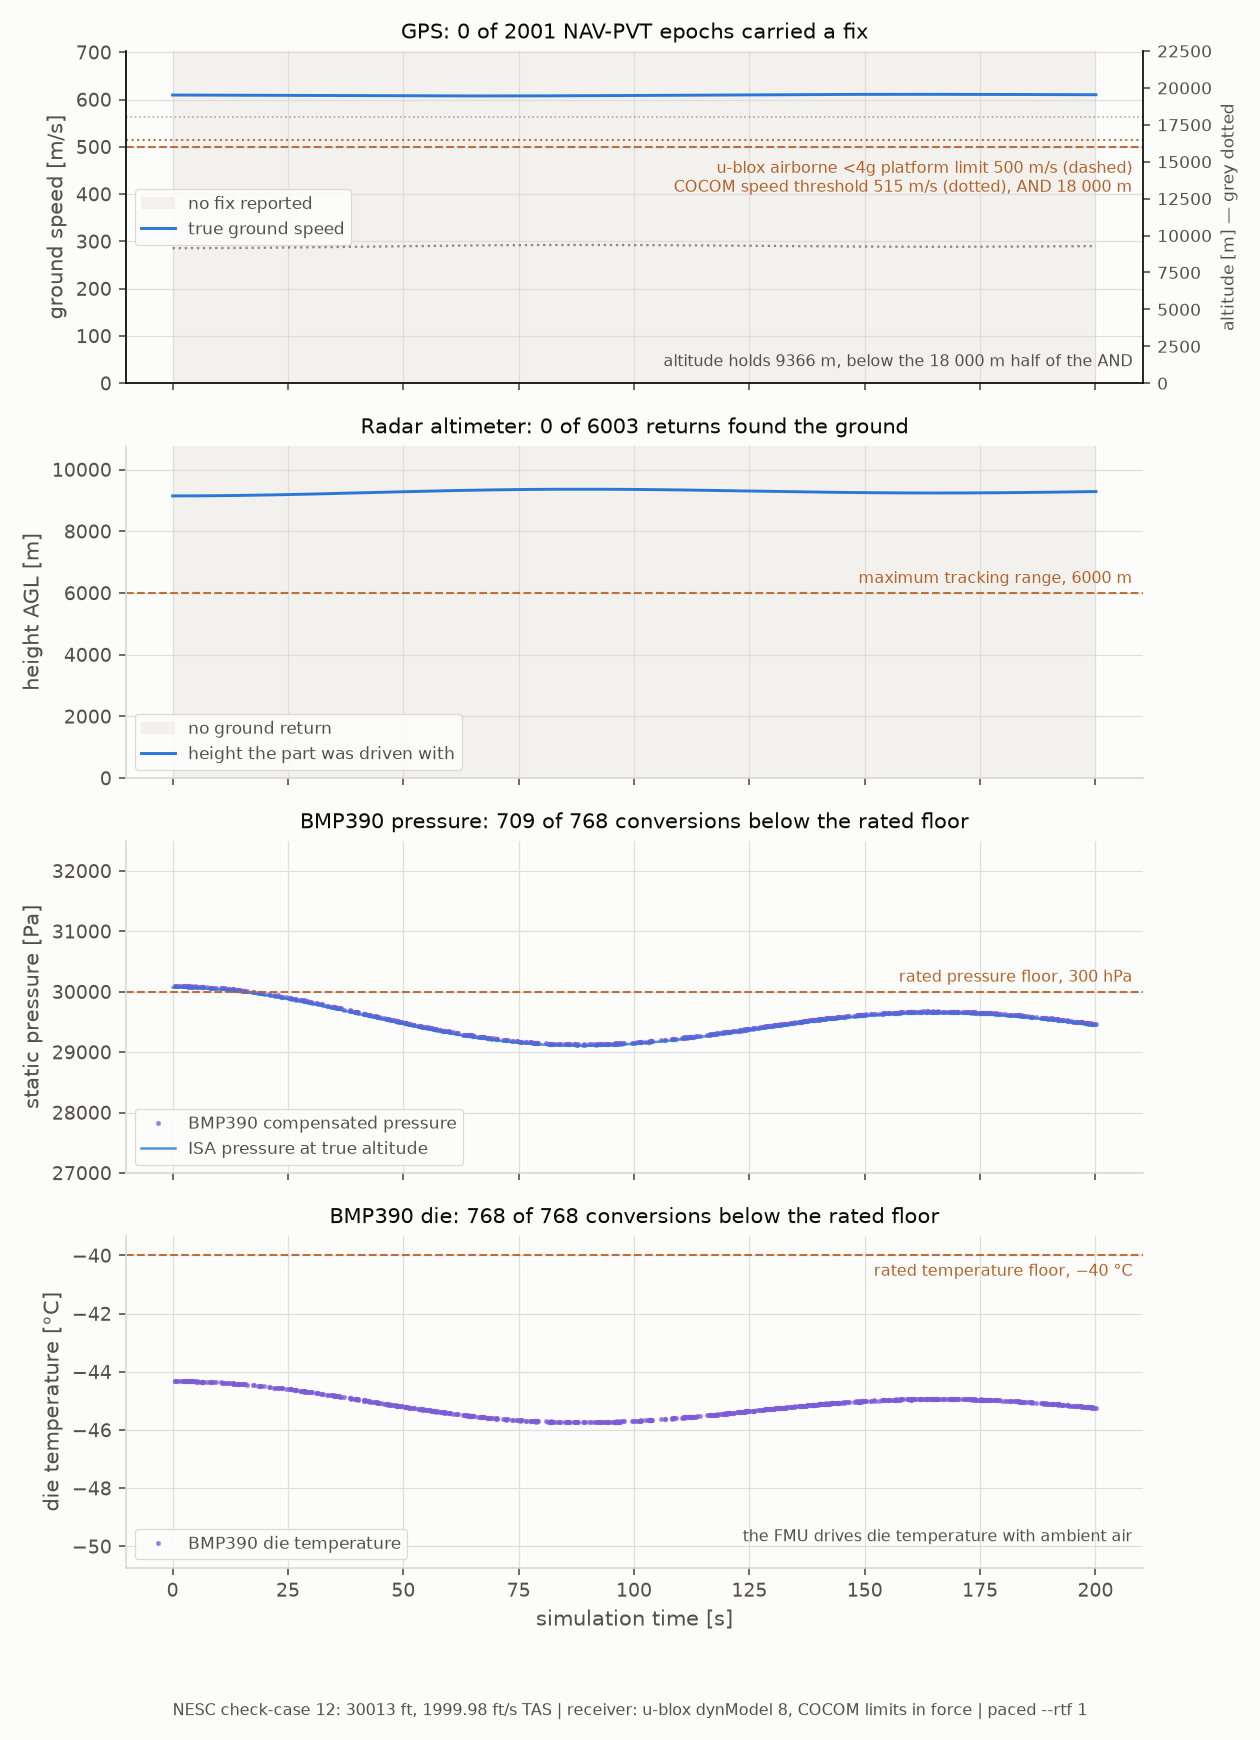
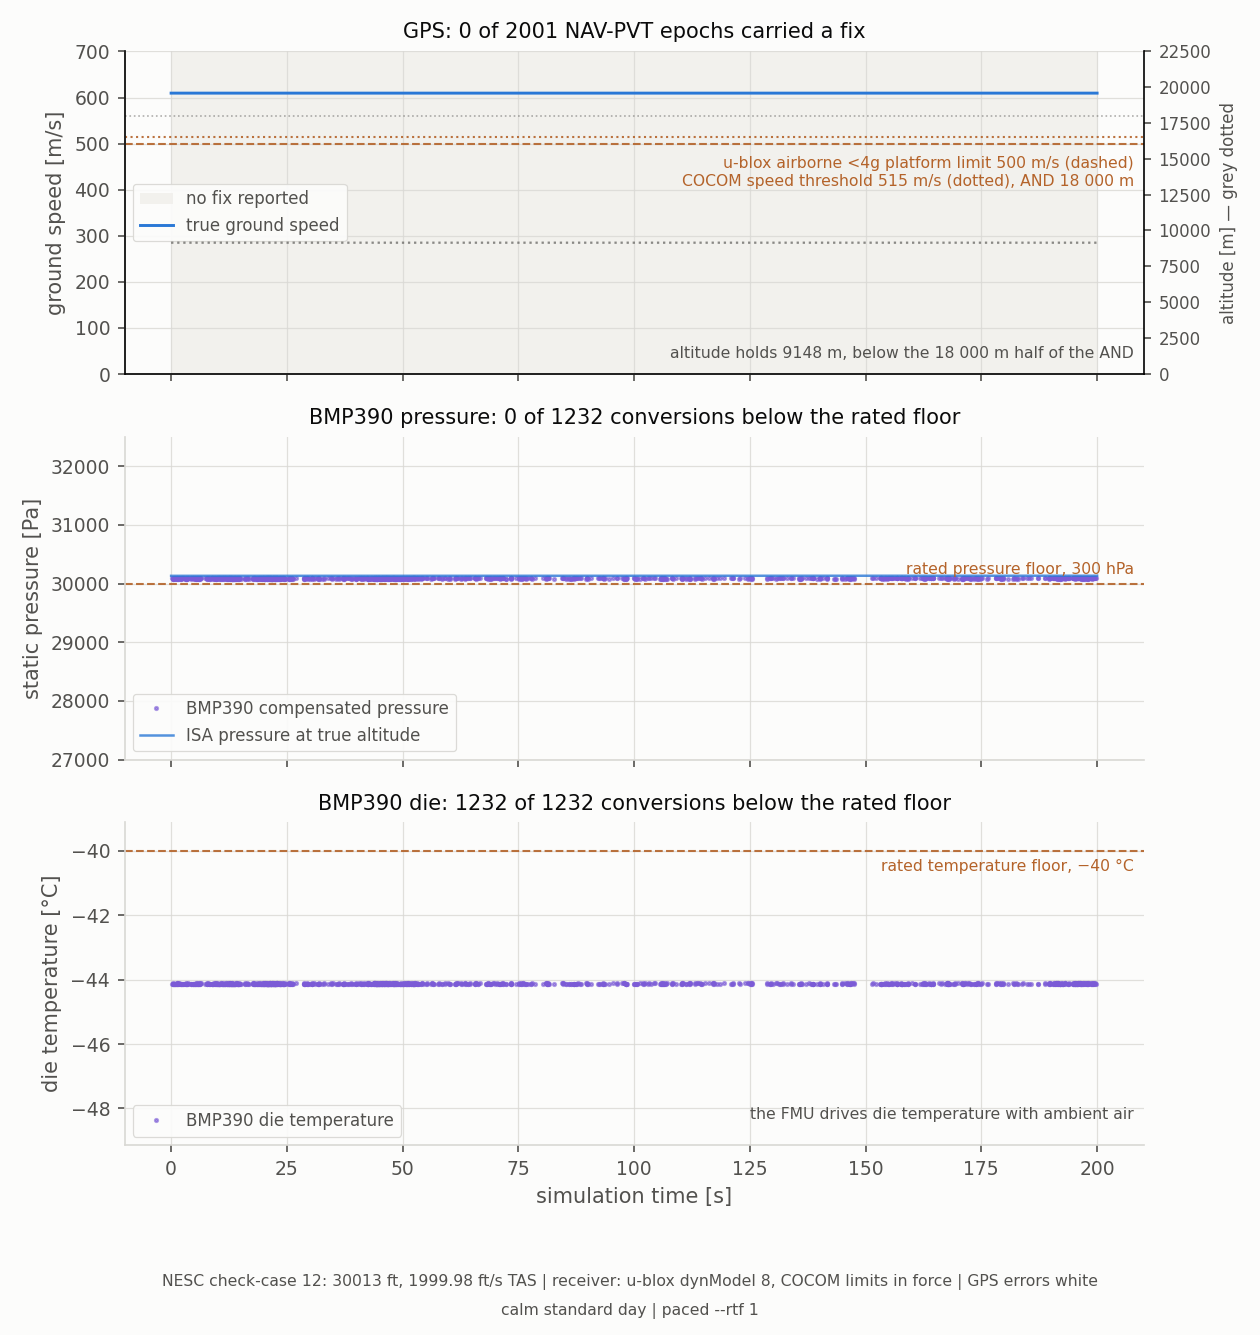
doc(examples): re-run and re-plot the altitude, envelope and clock figures without the radar
Re-runs at baseline (seed 11, IMU 100 Hz, GNSS 10 Hz, step 0.01, rtf 1)
against the pinned Aetherion 0.18.2 @ 49e75b8, on Windows 11 / MSVC:

- case11_altitude_consistency.png, case12_altitude_consistency.png and
  case12_sensor_envelopes.png regenerated; captions, alt text and the
  case-12 table re-measured from the new runs, with the command line,
  Aetherion version and platform stated.
- case11_clock_divergence.png held back: on this host the paced loop ran
  host time 1.7x simulation time with ~0.8 s rms residual, which swamps the
  per-part skew the figure shows. The caption now says the figure is the
  2026-09 one and is to be re-drawn from Linux.

plot_results.py: the altitude title counts measured sources (truth is the
reference), and pressure altitude is converted from the ISA's
geopotential altitude to geometric height before it is compared with
geometric plant truth. The plant's out.P_Pa is exactly ISA(geopotential),
so the raw comparison booked -1.47 m (3052 m) and -13.1 m (9148 m) of
altitude convention as barometer error. The envelope panel's ISA
reference line takes the same conversion.

diff --git a/examples/f16_trim_ecos/plot_results.py b/examples/f16_trim_ecos/plot_results.py
@@ -529,6 +529,31 @@ def isa_altitude_m(pressure_pa: float) -> float:
     return _ISA_H_TROPO - (_ISA_R * _ISA_T_TROPO / _ISA_G) * math.log(pressure_pa / _ISA_P_TROPO)
 
 
+# The ISA is tabulated in geopotential altitude, and the plant's static pressure
+# (out.P_Pa, which drives the BMP390) is the ISA evaluated at the geopotential
+# altitude of its geometric one. Plant truth (out.alt_m) is geometric. Comparing
+# an ISA-inverted pressure altitude with it directly therefore books
+# H - h = -h^2 / (R + h) as barometer error: -1.47 m at 3052 m, -13.1 m at
+# 9148 m. These two convert between the conventions so that a residual against
+# truth contains the sensor's error and nothing else.
+_ISA_GEOPOTENTIAL_RADIUS_M = 6356766.0
+
+
+def geopotential_m(height_m: float) -> float:
+    """Geometric height -> geopotential altitude, the ISA's argument."""
+    return _ISA_GEOPOTENTIAL_RADIUS_M * height_m / (_ISA_GEOPOTENTIAL_RADIUS_M + height_m)
+
+
+def geometric_m(geopotential_alt_m: float) -> float:
+    """Geopotential altitude -> geometric height, plant truth's convention."""
+    return _ISA_GEOPOTENTIAL_RADIUS_M * geopotential_alt_m / (_ISA_GEOPOTENTIAL_RADIUS_M - geopotential_alt_m)
+
+
+def pressure_altitude_geometric_m(pressure_pa: float) -> float:
+    """ISA pressure altitude, expressed as a geometric height comparable with plant truth."""
+    return geometric_m(isa_altitude_m(pressure_pa))
+
+
 def config_declination_deg(config: dict[str, str]) -> float:
     """The declination the host evaluated, from the run's own .config sidecar.
 
@@ -699,17 +724,19 @@ def plot_altitude_consistency(truth, fixes, baro, gps_gaps, out: Path, prefix: s
         ax.plot(fixes["sim_time_s"], fixes["altitude_m"], linestyle="none", marker=".",
                 markersize=MARKER_GPS, alpha=0.5, color=GPS, label="GPS altitude (decoded UBX)")
     if baro["sim_time_s"]:
-        ax.plot(baro["sim_time_s"], [isa_altitude_m(p) for p in baro["pressure_pa"]],
+        ax.plot(baro["sim_time_s"], [pressure_altitude_geometric_m(p) for p in baro["pressure_pa"]],
                 linestyle="none", marker=".", markersize=MARKER_SENSOR, alpha=0.6, color=BARO,
-                label="pressure altitude (BMP390, ISA inverted)")
+                label="pressure altitude (BMP390, ISA inverted, as geometric height)")
     ax.set_ylabel("altitude [m]")
-    # The title counts the sources that actually produced data. On case 11 that
-    # is three and the figure is a consistency check; on case 12 it is one, and a
-    # title still promising three would be describing the wiring instead of the
-    # flight.
-    surviving = 1 + sum(1 for series in (fixes, baro) if series["sim_time_s"])
-    ax.set_title("Three independent altitudes of the same aircraft" if surviving == 3
-                 else f"Only {surviving} of the three altitude sources produced data on this flight",
+    # The title counts the measured sources that actually produced data; plant
+    # truth is the reference, not a source. On case 11 both do and the figure is
+    # a consistency check; on case 12 only the barometer does, and a title still
+    # promising two would be describing the wiring instead of the flight.
+    sources = (fixes, baro)
+    surviving = sum(1 for series in sources if series["sim_time_s"])
+    ax.set_title("Two independent altitudes of the same aircraft, against plant truth"
+                 if surviving == len(sources)
+                 else f"Only {surviving} of the {len(sources)} altitude sources produced data on this flight",
                  fontsize=10)
     add_headroom(ax, 0.34)
     legend(ax, loc="upper left", framed=True)
@@ -728,7 +755,7 @@ def plot_altitude_consistency(truth, fixes, baro, gps_gaps, out: Path, prefix: s
         any_residual = True
     if baro["sim_time_s"]:
         ax_err.plot(baro["sim_time_s"],
-                    [isa_altitude_m(p) - interpolate(truth["time"], truth["alt_m"], t)
+                    [pressure_altitude_geometric_m(p) - interpolate(truth["time"], truth["alt_m"], t)
                      for t, p in zip(baro["sim_time_s"], baro["pressure_pa"])],
                     linestyle="none", marker=".", markersize=MARKER_SENSOR, alpha=0.6, color=BARO,
                     label="pressure altitude - truth")
@@ -1110,8 +1137,10 @@ def plot_sensor_envelopes(truth, fixes, baro, gps_gaps, fix_epochs, out: Path, p
 
     One figure, three panels, and the whole difference between the two
     check-cases: on case 11 every trace sits clear of its line for 200 s; on
-    case 12 all three are on the wrong side of it from the first epoch, while
-    every part keeps talking. That is the distinction the example
+    case 12 the receiver and the barometer each sit on the wrong side of one
+    of theirs from the first epoch (on Aetherion 0.18.2 the barometer's is the
+    die temperature; pressure holds just above its floor), while every part
+    keeps talking. That is the distinction the example
     is built to make — an envelope violation is not a silent bus.
 
     The GPS panel plots speed and altitude together on purpose. COCOM is an
@@ -1170,7 +1199,7 @@ def plot_sensor_envelopes(truth, fixes, baro, gps_gaps, fix_epochs, out: Path, p
     if baro["sim_time_s"]:
         ax_press.plot(baro["sim_time_s"], baro["pressure_pa"], linestyle="none", marker=".",
                       markersize=MARKER_SENSOR, alpha=0.6, color=BARO, label="BMP390 compensated pressure")
-    ax_press.plot(truth["time"], [isa_pressure_pa(h) for h in truth["alt_m"]], color=TRUTH,
+    ax_press.plot(truth["time"], [isa_pressure_pa(geopotential_m(h)) for h in truth["alt_m"]], color=TRUTH,
                   linewidth=1.2, alpha=0.8, label="ISA pressure at true altitude")
     ax_press.set_ylim(min(BMP390_P_MIN_PA * 0.9, min(baro["pressure_pa"], default=BMP390_P_MIN_PA) * 0.95),
                       max(baro["pressure_pa"], default=BMP390_P_MAX_PA) * 1.08)

diff --git a/doc/f16_trim_ecos_cosim.rst b/doc/f16_trim_ecos_cosim.rst
@@ -186,8 +186,9 @@ Case 12: the flight the sensors cannot follow
 ---------------------------------------------
 
 ``./f16_trim_cosim --case 12`` — no other change. Measured over a full 200 s
-paced run (``--rtf 1``), the same run the figures at the foot of this page are
-drawn from:
+run (``--case 12 --seed 11 --gps-period 0.1 --step 0.01 --rtf 1``, Aetherion
+0.18.2 @ 49e75b8, Windows 11 / MSVC, 2026-11-13), the same run the case-12
+figures at the foot of this page are drawn from:
 
 .. list-table::
    :header-rows: 1
@@ -209,25 +210,30 @@ drawn from:
        from an OR; the rocket crosses both thresholds within seconds of each
        other and cannot.
    * - BMP390
-     - **709 of 768 conversions below the part's 300 hPa rated pressure
-       floor** (minimum 291.2 hPa), and **all 768 with the die below its
-       −40 °C rating** — it sits at −45.7 °C, since the FMU drives die
-       temperature with ambient air. The part model saturates only at the ADC
-       rails, so the out-of-rating conversions read plausibly — as on the real
-       silicon, which offers no out-of-rating indication either. The FMU adds
-       the side channel the part cannot: its ``conversions`` /
+     - **All 1232 decoded conversions with the die below its −40 °C
+       rating** — it sits at −44.1 °C, since the FMU drives die temperature
+       with ambient air. Pressure stays *inside* its rating: the aircraft
+       holds 9148 m, and the lowest reading is 300.8 hPa, 0.8 hPa above the
+       300 hPa floor (0 of 1232 below it). The part model saturates only at
+       the ADC rails, so the out-of-rating conversions read plausibly — as on
+       the real silicon, which offers no out-of-rating indication either. The
+       FMU adds the side channel the part cannot: its ``conversions`` /
        ``conversions_out_of_rating`` FMI outputs count the violation (the host
-       prints them in its summary), and each envelope crossing is debug-logged
-       once with the offending value. These two counts are the ones that move
-       with pacing: unpaced, the same flight yields 286 conversions and the
-       same proportions.
+       prints them in its summary: 9998 of 9998 latched), and each envelope
+       crossing is debug-logged once with the offending value. The decoded
+       count is the one that moves with pacing, and on the Windows host this
+       run came from the paced loop fell behind (200 s of flight took about
+       470 s of wall clock), so the flight computer read the part at about
+       6 Hz of simulation time rather than at its ODR.
    * - magnetometer, IMU
      - In band. On this flight they are all the sensor fusion has left.
 
-The plant's phugoid is bigger here — +218 m peak altitude excursion and
-+0.47° of heading over the window — and the published participants split the
-same way they do on case 11: ``sim_02`` climbs +140 m through its phugoid
-while ``sim_04``/``sim_05`` hold altitude to 0.3 m.
+On Aetherion 0.18.2 the plant holds its trim on this flight: altitude stays within
+0.44 m of 9148 m over the window, and heading turns +0.88°. (On the
+pre-0.17.4 plant the same flight showed a +218 m phugoid and +0.47° of
+heading.) The published participants split the way they do on case 11:
+``sim_02`` climbs +140 m through its phugoid while ``sim_04``/``sim_05`` hold
+altitude to 0.3 m.
 
 Against Aetherion's standalone ``F16SupersonicTrim`` (≥ 0.14.1) the run
 verifies exactly as case 11 does: 0.491 m constant initial offset (the same
@@ -362,12 +368,13 @@ run was paced.
 figure, whose record — 3548 s of fixes, 35 correlation times — is unpaced:
 the receiver's data queues in a socket, so pacing changes nothing about it,
 and a record that long at 2× real time would otherwise take an afternoon. Unpaced, 200 s of
-flight yields about 37 barometer conversions against the 896 here, and the
+flight yields about 37 barometer conversions against 628–896 on the paced
+case-11 runs here, and the
 altitude- and heading-consistency figures become a scatter of dots through
 which no trace can be read. The GPS and IMU figures are
 unaffected either way — their data queues in a socket or a FIFO — which is why
 the barometer is the only stack whose counts move with the pacing. The case-12
-table above is measured on the same paced run as these figures.
+table above is measured on the same paced run as the case-12 figures.
 
 Check-case 11: the cross-sensor reference
 ~~~~~~~~~~~~~~~~~~~~~~~~~~~~~~~~~~~~~~~~~
@@ -391,25 +398,37 @@ Check-case 11: the cross-sensor reference
 
 .. figure:: _static/f16_trim_ecos/case11_altitude_consistency.png
    :width: 100%
-   :alt: Upper panel, altitude traces following one phugoid from 3052 to 3083 m; lower panel, their residuals against truth — GPS scattered over ±10 m, barometer a tight band near +1.3 m
+   :alt: Upper panel, plant truth flat at 3052 m with GPS altitudes scattered about it and pressure altitude a band about 5 m above; lower panel, their residuals against truth — GPS scattered over ±10 m, barometer a tight band near +5 m
 
    The figure check-case 11 exists for. Barometric altitude and GNSS altitude
    are physically unrelated measurements — a pressure and a set of ranging
    solutions — and a filter that is going to trust their agreement should be
    shown that agreement first, on a flight where both are valid for all 200 s.
+   On Aetherion 0.18.2 the aircraft holds its trim altitude (3051.8–3052.0 m
+   over the window), so what the panels show is the sensors, not the flight.
 
    The lower panel is the content, and the two error *characters* are the
    point rather than the two magnitudes:
 
-   * **GPS is noise.** Mean −0.08 m, RMS 3.07 m over 2001 fixes — which is
+   * **GPS is noise.** Mean −0.04 m, RMS 3.05 m over 2001 fixes — which is
      ``GpsNoiseConfig``'s 3 m vertical 1-sigma recovered end to end, through
      the UBX encoder, the socket and the parser, with nothing added.
-   * **The barometer is bias.** Mean **+1.32 m**, RMS 1.36 m: the scatter is
-     almost all offset. In pressure it is a constant −11.7 Pa with 3.1 Pa of
-     scatter — the BMP390 model's per-run turn-on offset (30 Pa 1-sigma, drawn
-     once) sitting on its datasheet noise floor, read through the ISA at
+   * **The barometer is bias.** Mean **+5.04 m**, RMS 5.05 m, scatter 0.34 m:
+     the residual is almost all offset. In pressure it is a constant −44.6 Pa
+     with 3.0 Pa of scatter — the BMP390 model's per-run turn-on offset
+     (30 Pa 1-sigma, drawn once; seed 11 draws −44.7 Pa, which the truth log
+     records) sitting on its datasheet noise floor, read through the ISA at
      0.904 kg/m³. No amount of averaging removes it; only a reference pressure
-     does.
+     does. Pressure altitude is converted from the ISA's geopotential altitude
+     to geometric height before it is compared with truth; read raw it would
+     carry a further −1.47 m that belongs to the altitude convention, not to
+     the sensor.
+
+   Drawn from ``f16_trim_cosim --case 11 --seed 11 --gps-period 0.1
+   --step 0.01 --rtf 1`` against Aetherion 0.18.2 @ 49e75b8, on Windows 11
+   (MSVC). The paced loop fell behind there — 200 s of flight took about
+   595 s of wall clock — and the polled barometer delivered 628 conversions;
+   the gaps in its band are that, not the part. The GPS fixes are unaffected.
 
 .. figure:: _static/f16_trim_ecos/case11_heading_consistency.png
    :width: 100%
@@ -653,6 +672,13 @@ for no reason at all.
    enough to see; the mechanism is what the figure is about, not the
    magnitude.
 
+   This figure and its numbers are from a 2026-09 run, unseeded, on the
+   plant before Aetherion 0.17.4, and its third line is the radar altimeter,
+   since removed. A re-run on Windows was held back: there the paced loop
+   ran host time 1.7× simulation time with about 0.8 s rms residual, which
+   swamps the per-part skew this figure exists to show. It is to be re-drawn
+   from a Linux run.
+
    The fitted lines have different slopes because each part drew its own
    rate error from the one sigma the run configured: the barometer runs
    **5045 ppm** slower than the IMU. That is the point of the item. A filter fusing these streams cannot
@@ -680,14 +706,19 @@ Check-case 12: stacks outside their envelopes
 
 .. figure:: _static/f16_trim_ecos/case12_sensor_envelopes.png
    :width: 100%
-   :alt: Stacked panels — ground speed above both GPS limits with the whole flight shaded as no-fix, barometer pressure below the 300 hPa rated floor, and die temperature below the -40 C floor
+   :alt: Stacked panels — ground speed above both GPS limits with the whole flight shaded as no-fix, barometer pressure just above the 300 hPa rated floor, and die temperature near -44 C, below the -40 C floor
 
    The whole difference between the two check-cases, in one figure. Each panel
    puts a stack against the limit that bounds it; on case 11 every trace sits
-   clear of its line for 200 s, and here every one is on the wrong
-   side of it from the first epoch — **while every part keeps talking**. That
-   distinction is what the example is built to make: an envelope violation is
-   not a silent bus, and none of these figures is an empty file.
+   clear of its line for 200 s, and here the receiver and the barometer are
+   each on the wrong side of one of theirs from the first epoch — **while
+   every part keeps talking**. That distinction is what the example is built
+   to make: an envelope violation is not a silent bus, and none of these
+   figures is an empty file. Drawn from ``f16_trim_cosim --case 12 --seed 11
+   --gps-period 0.1 --step 0.01 --rtf 1`` against Aetherion 0.18.2 @ 49e75b8,
+   on Windows 11 (MSVC), where the paced loop fell behind (about 470 s of wall
+   clock for 200 s of flight); that thins the barometer's points and changes
+   none of the counts' proportions.
 
    * **GPS: 0 of 2001 epochs carried a fix.** 610 m/s is past the airborne
      <4 g platform model's 500 m/s bound from the very first epoch. The
@@ -695,36 +726,49 @@ Check-case 12: stacks outside their envelopes
      clear, no position in the payload.
    * **COCOM is an AND, and this is the flight that proves it.** The speed
      threshold (515 m/s, dotted) is exceeded and the altitude threshold is
-     not — the grey dotted trace holds 9366 m against an 18 000 m bound. An
+     not — the grey dotted trace holds 9148 m against an 18 000 m bound. An
      OR receiver would have lost the fix to COCOM here; this one does not, and
      what takes the fix is the platform model instead. The rocket scenario
      crosses both thresholds within seconds of each other and cannot tell the
      two apart.
-   * **BMP390: 709 of 768 conversions below the rated 300 hPa floor**
-     (minimum 291.2 hPa), with the die at −45.7 °C for **all 768**, below its
-     −40 °C rating. The part model saturates only at the ADC rails, so the
-     out-of-rating conversions read plausibly — as they would on real silicon,
-     which offers no out-of-rating indication either. The FMU supplies the side
-     channel the part cannot: ``conversions_out_of_rating`` counts the
-     violation on an FMI output.
+   * **BMP390: the die is at −44.1 °C for all 1232 decoded conversions**,
+     below its −40 °C rating. Pressure is the closer call: holding 9148 m, the
+     aircraft never takes the part below its 300 hPa floor — 0 of 1232
+     conversions, minimum 300.8 hPa — so on this plant the barometer is out of
+     rating on temperature alone. (On the pre-0.17.4 plant a +218 m phugoid
+     carried it to 291.2 hPa, below the floor for 709 of 768 conversions.)
+     The part model saturates only at the ADC rails, so the out-of-rating
+     conversions read plausibly — as they would on real silicon, which offers
+     no out-of-rating indication either. The FMU supplies the side channel the
+     part cannot: ``conversions_out_of_rating`` counts the violation on an FMI
+     output.
 
 .. figure:: _static/f16_trim_ecos/case12_altitude_consistency.png
    :width: 100%
-   :alt: The same altitude figure as case 11 but with only one trace — the barometer — over a full-width no-fix wash, and a residual panel showing a -4.6 m bias
+   :alt: The same altitude figure as case 11 but with only one trace — the barometer — over a full-width no-fix wash, and a residual panel showing a +10.0 m bias
 
    The same figure as the case-11 altitude comparison, on the flight where
    there is nothing to compare. The no-fix wash runs the full width, and
-   **one altitude source survives** — the barometer, running 700 conversions below the pressure its
+   **one of the two altitude sources survives** — the barometer, every one of
+   its 1232 decoded conversions made with its die below the temperature the
    part is rated for.
 
    Its residual is worth reading rather than dismissing. The bias is
-   **−4.56 m** here against +1.32 m on case 11, and it is still a bias: RMS
-   4.61 m against a mean of −4.56, so the scatter is almost entirely offset.
-   In pressure it is +20.2 Pa with the same 3 Pa of scatter — a fresh draw of
-   the model's 30 Pa turn-on offset, since every run draws its own. What the
-   flight changes is the exchange rate: at 9.2 km the air is 0.458 kg/m³,
-   half of case 11's, so **the same pressure error buys twice the altitude**.
-   The sensor has not become noisy outside its rating; a barometer's fixed
-   pressure error is simply worth more metres the higher it flies. A fusion
-   filter given this stack alone on this flight would hold altitude
-   confidently, and hold it four and a half metres low.
+   **+9.97 m** here against +5.04 m on case 11, and it is still a bias: RMS
+   9.99 m against a mean of +9.97, scatter 0.66 m, so the residual is almost
+   entirely offset. In pressure it is −44.7 Pa with the same 3.0 Pa of
+   scatter — *the same* turn-on offset as case 11, since both runs are
+   ``--seed 11`` and the seed fixes the draw. What the flight changes is the
+   exchange rate: at 9.15 km the air is 0.458 kg/m³, half of case 11's
+   0.904, so **the same pressure error buys twice the altitude** — 1.98×,
+   measured. The sensor has not become noisy outside its rating; a
+   barometer's fixed pressure error is simply worth more metres the higher it
+   flies. A fusion filter given this stack alone on this flight would hold
+   altitude confidently, and hold it ten metres high. (Read raw, without the
+   geopotential-to-geometric conversion, the residual would carry a further
+   −13.1 m of altitude convention at this height and appear as −3.2 m.)
+
+   Drawn from the same run as the envelope figure above: ``--case 12
+   --seed 11 --gps-period 0.1 --step 0.01 --rtf 1``, Aetherion 0.18.2 @
+   49e75b8, Windows 11 (MSVC); the clusters and gaps in the barometer's
+   points are that host's polling, not the part.
